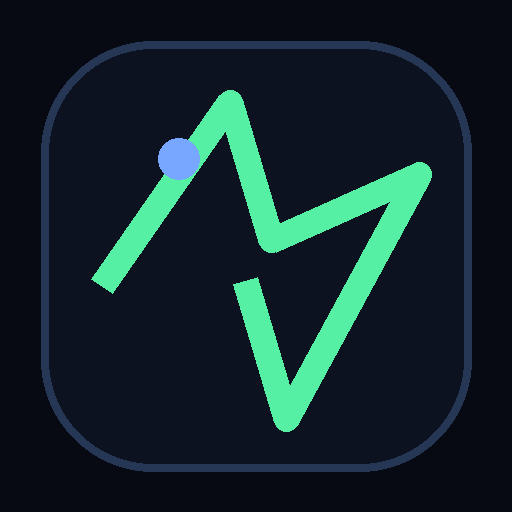
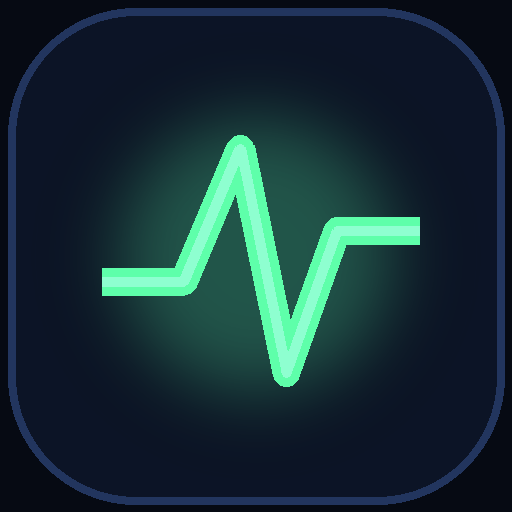
Add files via upload

diff --git a/index.html b/index.html
@@ -1,21 +1,29 @@
-<!doctype html><html lang="ru"><head><meta charset="utf-8"><meta name="viewport" content="width=device-width,initial-scale=1,viewport-fit=cover"><meta name="theme-color" content="#070A12"><link rel="manifest" href="manifest.json?v=14"><link rel="apple-touch-icon" href="icon-192.png"><title>Lowcap Radar</title><style>
-:root{--bg:#070A12;--card:#0E1524;--line:#223150;--txt:#EEF4FF;--mut:#8F9AB2;--good:#55F0A4;--bad:#FF6384;--warn:#F6C453;--r:24px;--shadow:0 16px 45px rgba(0,0,0,.35)}*{box-sizing:border-box}html,body{margin:0;background:var(--bg);color:var(--txt);font-family:-apple-system,BlinkMacSystemFont,"SF Pro Display",Segoe UI,sans-serif}body{min-height:100vh;overflow-x:hidden}.app{width:min(430px,100%);margin:0 auto;padding:env(safe-area-inset-top) 14px calc(88px + env(safe-area-inset-bottom));}.top{position:sticky;top:0;z-index:5;margin:0 -14px;padding:10px 14px 8px;background:linear-gradient(180deg,rgba(7,10,18,.98),rgba(7,10,18,.82));backdrop-filter:blur(18px)}.brand{display:flex;gap:10px;align-items:center}.logo{width:38px;height:38px;border-radius:13px;background:radial-gradient(circle at 35% 30%,#66f3b6,transparent 34%),linear-gradient(135deg,#14223a,#0b0f19 65%);border:1px solid #253555;display:grid;place-items:center;box-shadow:0 0 28px rgba(85,240,164,.12)}.logo svg{width:24px;height:24px}.h1{font-size:20px;font-weight:900;letter-spacing:-.04em;line-height:1}.sub{font-size:11px;color:var(--mut);margin-top:4px}.status{margin-left:auto;font-size:11px;color:var(--good);border:1px solid rgba(85,240,164,.25);background:rgba(85,240,164,.08);padding:7px 9px;border-radius:999px}.hero{margin-top:8px;border:1px solid var(--line);background:linear-gradient(180deg,#10192A,#0B101C);box-shadow:var(--shadow);border-radius:var(--r);padding:12px}.heroRow{display:grid;grid-template-columns:1fr 1fr 1fr;gap:8px}.metric{background:#0A101C;border:1px solid #18233A;border-radius:17px;padding:9px 8px;text-align:center}.metric b{display:block;font-size:17px;letter-spacing:-.03em}.metric span{font-size:10px;color:var(--mut)}.tabs{display:flex;gap:8px;margin:12px 0}.tab{flex:1;border:1px solid var(--line);background:#0D1422;color:var(--mut);border-radius:16px;padding:11px 8px;font-weight:800;font-size:12px}.tab.active{color:var(--txt);background:#17243A;border-color:#2A3B5E}.panel{display:none}.panel.active{display:block}.filters{display:grid;gap:10px}.filterCard,.coin,.watch,.sim{border:1px solid var(--line);background:var(--card);border-radius:var(--r);padding:12px}.grid2{display:grid;grid-template-columns:1fr 1fr;gap:10px}.field label{font-size:11px;color:var(--mut);display:block;margin:0 0 6px 2px}.field input,.field select{width:100%;height:41px;border:1px solid #22314E;background:#090F1A;color:var(--txt);border-radius:14px;padding:0 11px;font-weight:800;outline:none}.actions{display:flex;gap:10px;margin-top:10px}.btn{border:0;border-radius:16px;height:46px;padding:0 14px;font-weight:900;color:#071019;background:linear-gradient(135deg,var(--good),#8BFFA9);flex:1}.btn.secondary{color:var(--txt);background:#131D30;border:1px solid #253653}.btn:disabled{opacity:.55}.hint{font-size:11px;color:var(--mut);line-height:1.35;margin:8px 2px 0}.coins{display:grid;gap:10px;margin-top:10px}.coin{padding:12px}.coinTop{display:flex;align-items:center;gap:10px}.coin img,.avatar{width:34px;height:34px;border-radius:50%;background:#172235;object-fit:cover;flex:0 0 34px}.avatar{display:grid;place-items:center;color:white;font-size:11px;font-weight:900;background:linear-gradient(135deg,#34256b,#101b32)}.coinName{min-width:0}.coinName b{font-size:14px}.coinName span{display:block;color:var(--mut);font-size:11px;text-transform:uppercase}.score{margin-left:auto;width:54px;height:54px;border-radius:18px;display:grid;place-items:center;background:#09111D;border:1px solid #22334F;font-size:18px;font-weight:900}.score.good{color:var(--good)}.score.mid{color:var(--warn)}.score.low{color:var(--bad)}.data{display:grid;grid-template-columns:1fr 1fr 1fr;gap:7px;margin-top:10px}.pill{background:#090F1A;border:1px solid #192640;border-radius:14px;padding:8px 7px}.pill b{font-size:12px;display:block}.pill span{font-size:10px;color:var(--mut)}.coinActions{display:flex;gap:8px;margin-top:10px}.mini{flex:1;height:36px;border-radius:13px;border:1px solid #263755;background:#111B2D;color:var(--txt);font-weight:800}.mini.hot{background:rgba(85,240,164,.12);border-color:rgba(85,240,164,.25);color:var(--good)}.empty{border:1px dashed #263755;border-radius:20px;padding:22px;text-align:center;color:var(--mut);font-size:13px}.bottom{position:fixed;left:50%;bottom:0;transform:translateX(-50%);width:min(430px,100%);padding:8px 14px calc(8px + env(safe-area-inset-bottom));background:linear-gradient(180deg,rgba(7,10,18,0),rgba(7,10,18,.97) 26%)}.nav{display:flex;gap:8px;background:#0D1422;border:1px solid var(--line);border-radius:22px;padding:7px;box-shadow:var(--shadow)}.nav button{flex:1;border:0;background:transparent;color:var(--mut);font-weight:900;font-size:11px;padding:9px 4px;border-radius:15px}.nav button.active{background:#18243A;color:var(--txt)}.toast{position:fixed;left:50%;bottom:88px;transform:translateX(-50%) translateY(20px);background:#101A2B;border:1px solid #2D4168;color:var(--txt);border-radius:999px;padding:10px 14px;font-size:12px;opacity:0;pointer-events:none;transition:.2s}.toast.show{opacity:1;transform:translateX(-50%) translateY(0)}.risk{color:#F6C453}.gain{color:var(--good)}.loss{color:var(--bad)}
-</style></head><body><div class="app"><header class="top"><div class="brand"><div class="logo"><svg viewBox="0 0 24 24" fill="none"><path d="M3 13h4l3-8 4 16 3-8h4" stroke="#66F3B6" stroke-width="2.4" stroke-linecap="round" stroke-linejoin="round"/></svg></div><div><div class="h1">Lowcap Radar</div><div class="sub">автопоиск lowcap-монет · v1.4</div></div><div id="apiStatus" class="status">ready</div></div></header><section class="hero"><div class="heroRow"><div class="metric"><b id="foundCount">—</b><span>найдено</span></div><div class="metric"><b id="avgScore">—</b><span>средний score</span></div><div class="metric"><b>DYOR</b><span>не финсовет</span></div></div></section><div class="tabs"><button class="tab active" data-tab="radar">Радар</button><button class="tab" data-tab="watchlist">Список</button><button class="tab" data-tab="sim">$10/$50/$100</button></div><section id="radar" class="panel active"><div class="filterCard filters"><div class="grid2"><div class="field"><label>Market cap до $</label><input id="maxCap" type="number" value="50000000"></div><div class="field"><label>Цена до $</label><input id="maxPrice" type="number" value="1" step="0.0001"></div><div class="field"><label>Volume 24h от $</label><input id="minVol" type="number" value="100000"></div><div class="field"><label>Сеть</label><select id="network"><option value="">Любая</option><option value="ethereum">Ethereum</option><option value="solana">Solana</option><option value="base">Base</option><option value="arbitrum">Arbitrum</option><option value="polygon-pos">Polygon</option><option value="optimistic-ethereum">Optimism</option><option value="binance-smart-chain">BNB Chain</option></select></div></div><div class="field"><label>Категория</label><select id="category"><option value="">Любая</option><option value="meme-token">Meme</option><option value="artificial-intelligence">AI</option><option value="gaming">Gaming</option><option value="real-world-assets-rwa">RWA</option><option value="depin">DePIN</option><option value="layer-1">Layer 1</option><option value="layer-2">Layer 2</option></select></div><div class="field"><label>CoinGecko Demo API Key</label><input id="apiKey" type="text" placeholder="вставь ключ CoinGecko, если API пишет error"></div><div class="actions"><button id="scanBtn" class="btn">Сканировать</button><button id="demoBtn" class="btn secondary">Demo</button></div><p class="hint">v1.4 сканирует несколько страниц CoinGecko. Demo больше не включается автоматически, чтобы не путать реальные монеты с тестовыми.</p></div><div id="coins" class="coins"></div></section><section id="watchlist" class="panel"><div id="watchBox" class="coins"></div></section><section id="sim" class="panel"><div class="sim"><div class="field"><label>Монета из watchlist</label><select id="simCoin"></select></div><div class="actions"><button class="btn secondary" data-buy="10">$10</button><button class="btn secondary" data-buy="50">$50</button><button class="btn secondary" data-buy="100">$100</button></div><p id="simResult" class="hint">Добавь монету в watchlist и выбери сумму. Это условная симуляция.</p></div></section></div><footer class="bottom"><div class="nav"><button class="active" data-tab="radar">Радар</button><button data-tab="watchlist">Список</button><button data-tab="sim">$10/$50/$100</button></div></footer><div id="toast" class="toast"></div><script>
-const API='https://api.coingecko.com/api/v3'; const $=id=>document.getElementById(id); let coins=[]; let watch=JSON.parse(localStorage.lowcapWatch||'[]');
-const demo=[{id:'demo-ai',name:'Nexa AI',symbol:'nexa',current_price:.042,market_cap:18000000,total_volume:1200000,price_change_percentage_24h:12.4,price_change_percentage_7d_in_currency:33},{id:'demo-rwa',name:'Brick RWA',symbol:'brick',current_price:.0062,market_cap:7200000,total_volume:340000,price_change_percentage_24h:4.7,price_change_percentage_7d_in_currency:18},{id:'demo-meme',name:'Byte Cat',symbol:'bytecat',current_price:.00081,market_cap:3100000,total_volume:210000,price_change_percentage_24h:-2.1,price_change_percentage_7d_in_currency:55}];
-function money(n){if(n==null)return'—'; if(n>=1e9)return'$'+(n/1e9).toFixed(1)+'B'; if(n>=1e6)return'$'+(n/1e6).toFixed(1)+'M'; if(n>=1e3)return'$'+(n/1e3).toFixed(0)+'K'; if(n>=1)return'$'+(+n).toFixed(2); return '$'+(+n).toPrecision(2)}
-function score(c){let s=0,cap=c.market_cap||0,vol=c.total_volume||0,p=c.current_price||0,d=c.price_change_percentage_24h||0,w=c.price_change_percentage_7d_in_currency||0; if(cap>0&&cap<5e6)s+=25; else if(cap<20e6)s+=20; else if(cap<50e6)s+=14; if(vol>1e6)s+=20; else if(vol>250e3)s+=15; else if(vol>50e3)s+=9; if(p>0&&p<.01)s+=12; else if(p<.1)s+=9; else if(p<1)s+=6; if(w>40)s+=22; else if(w>15)s+=16; else if(w>0)s+=8; if(d>5)s+=12; else if(d>-8)s+=6; return Math.min(100,Math.round(s+8))}
-function pass(c){let cap=+$('maxCap').value||1e12, price=+$('maxPrice').value||1e12, vol=+$('minVol').value||0; return (c.market_cap||0)<=cap&&(c.current_price||0)<=price&&(c.total_volume||0)>=vol}
-function avatar(symbol){let s=(symbol||'?').toUpperCase().slice(0,3); return `<div class="avatar">${s}</div>`}
-function iconHtml(c){return c.image?`<img src="${c.image}" loading="lazy" onerror="this.outerHTML=avatar('${(c.symbol||'?').replace(/'/g,'')}')">`:avatar(c.symbol)}
-function coinCard(c){let sc=score(c), cls=sc>=70?'good':sc>=45?'mid':'low', inW=watch.some(x=>x.id===c.id); return `<div class="coin"><div class="coinTop">${iconHtml(c)}<div class="coinName"><b>${c.name}</b><span>${c.symbol}</span></div><div class="score ${cls}">${sc}</div></div><div class="data"><div class="pill"><b>${money(c.market_cap)}</b><span>market cap</span></div><div class="pill"><b>${money(c.current_price)}</b><span>price</span></div><div class="pill"><b>${money(c.total_volume)}</b><span>volume</span></div></div><div class="data"><div class="pill"><b class="${(c.price_change_percentage_24h||0)>=0?'gain':'loss'}">${(c.price_change_percentage_24h||0).toFixed(1)}%</b><span>24h</span></div><div class="pill"><b class="${(c.price_change_percentage_7d_in_currency||0)>=0?'gain':'loss'}">${(c.price_change_percentage_7d_in_currency||0).toFixed(1)}%</b><span>7d</span></div><div class="pill"><b class="risk">DYOR</b><span>no advice</span></div></div><div class="coinActions"><button class="mini ${inW?'hot':''}" onclick="toggleWatch('${c.id}')">${inW?'В списке':'В watchlist'}</button><button class="mini" onclick="window.open('https://www.coingecko.com/en/coins/${c.id}','_blank')">CoinGecko</button></div></div>`}
-function render(){let list=coins.filter(pass).sort((a,b)=>score(b)-score(a)); $('coins').innerHTML=list.length?list.map(coinCard).join(''):'<div class="empty">Ничего не найдено. Ослабь фильтры: увеличь market cap или уменьши volume.</div>'; $('foundCount').textContent=list.length; $('avgScore').textContent=list.length?Math.round(list.reduce((s,c)=>s+score(c),0)/list.length):'—'; renderWatch()}
-function renderWatch(){localStorage.lowcapWatch=JSON.stringify(watch); $('watchBox').innerHTML=watch.length?watch.map(coinCard).join(''):'<div class="empty">Watchlist пуст.</div>'; $('simCoin').innerHTML=watch.map(c=>`<option value="${c.id}">${c.name} (${(c.symbol||'').toUpperCase()})</option>`).join('')||'<option>Нет монет</option>'}
-function toggleWatch(id){let c=[...coins,...watch].find(x=>x.id===id); if(!c)return; watch=watch.some(x=>x.id===id)?watch.filter(x=>x.id!==id):[c,...watch].slice(0,30); toast(watch.some(x=>x.id===id)?'Добавлено в watchlist':'Удалено'); render()}
-async function fetchPage(page,cat){let key=($('apiKey').value||localStorage.cgDemoKey||'').trim(); if(key)localStorage.cgDemoKey=key; let url=`${API}/coins/markets?vs_currency=usd&order=market_cap_asc&per_page=250&page=${page}&sparkline=false&price_change_percentage=7d&locale=en`; if(cat)url+=`&category=${encodeURIComponent(cat)}`; if(key)url+=`&x_cg_demo_api_key=${encodeURIComponent(key)}`; let r=await fetch(url,{cache:'no-store',mode:'cors'}); if(!r.ok){let msg='CoinGecko API '+r.status; if(r.status===401||r.status===403)msg+=': нужен Demo API Key'; if(r.status===429)msg+=': лимит, подожди минуту'; throw new Error(msg)} return await r.json()}
-async function scan(){ $('scanBtn').disabled=true; $('scanBtn').textContent='Сканирую…'; $('apiStatus').textContent='scan'; try{let cat=$('category').value; let all=[]; for(let p=1;p<=4;p++){let arr=await fetchPage(p,cat); all=all.concat(arr); if(arr.length<250)break} let seen=new Set(); coins=all.filter(c=>c&&c.id&&!seen.has(c.id)&&seen.add(c.id)&&c.market_cap&&c.current_price); $('apiStatus').textContent='online'; render(); toast('Обновлено: '+coins.length+' монет из API')}catch(e){$('apiStatus').textContent='api error'; $('coins').innerHTML='<div class="empty"><b>API не ответил.</b><br>Чаще всего CoinGecko требует Demo API Key или сработал лимит. Вставь ключ в поле выше и нажми «Сканировать». Demo доступен отдельной кнопкой.</div>'; toast(e.message||'API недоступен')} finally{$('scanBtn').disabled=false;$('scanBtn').textContent='Сканировать'}}
-function toast(t){let el=$('toast');el.textContent=t;el.classList.add('show');setTimeout(()=>el.classList.remove('show'),1800)}
-document.querySelectorAll('[data-tab]').forEach(b=>b.onclick=()=>{let t=b.dataset.tab;document.querySelectorAll('.panel').forEach(p=>p.classList.toggle('active',p.id===t));document.querySelectorAll('[data-tab]').forEach(x=>x.classList.toggle('active',x.dataset.tab===t))});
-if(localStorage.cgDemoKey)$('apiKey').value=localStorage.cgDemoKey; $('apiKey').onchange=()=>{localStorage.cgDemoKey=$('apiKey').value.trim(); toast('API key сохранён на iPhone')}; ['maxCap','maxPrice','minVol','category','network'].forEach(id=>$(id).onchange=render); $('scanBtn').onclick=scan; $('demoBtn').onclick=()=>{coins=demo;$('apiStatus').textContent='demo';render()}; document.querySelectorAll('[data-buy]').forEach(b=>b.onclick=()=>{let id=$('simCoin').value,c=watch.find(x=>x.id===id),sum=+b.dataset.buy;if(!c)return;let qty=sum/c.current_price;$('simResult').innerHTML=`Условная покупка <b>$${sum}</b>: примерно <b>${qty.toLocaleString('en-US',{maximumFractionDigits:2})} ${c.symbol.toUpperCase()}</b>. Это симуляция, не рекомендация.`});
-window.avatar=avatar; if('serviceWorker'in navigator)navigator.serviceWorker.register('sw.js?v=14'); render(); scan();
+<!doctype html><html lang="ru"><head><meta charset="utf-8"><meta name="viewport" content="width=device-width,initial-scale=1,viewport-fit=cover"><meta name="theme-color" content="#060a13"><link rel="manifest" href="manifest.json"><link rel="apple-touch-icon" href="icon-192.png"><title>Lowcap Radar</title><style>
+:root{--bg:#060a13;--card:#0d1424;--card2:#09111e;--line:#203153;--txt:#f4f7ff;--muted:#8d98b3;--green:#64f6a2;--red:#ff6d91;--yellow:#ffd15f}*{box-sizing:border-box}body{margin:0;background:radial-gradient(circle at 20% 0,#12233d 0,#060a13 38%,#04070d 100%);color:var(--txt);font-family:-apple-system,BlinkMacSystemFont,Inter,Segoe UI,Arial,sans-serif;padding:env(safe-area-inset-top) 14px calc(90px + env(safe-area-inset-bottom));}button,input,select{font:inherit} .app{max-width:430px;margin:0 auto}.top{display:flex;align-items:center;gap:12px;padding:18px 0 12px;position:sticky;top:0;background:linear-gradient(#060a13 70%,transparent);z-index:5}.logo{width:44px;height:44px;border-radius:14px;box-shadow:0 0 24px rgba(100,246,162,.25)}h1{font-size:27px;line-height:1;margin:0}.sub{color:var(--muted);font-size:14px;margin-top:5px}.pill{margin-left:auto;border:1px solid #1f6f4b;color:var(--green);padding:8px 12px;border-radius:18px;background:#0b211b;font-size:14px}.stats,.panel,.coin{background:rgba(13,20,36,.92);border:1px solid var(--line);border-radius:24px;box-shadow:inset 0 0 0 1px rgba(255,255,255,.015);}.stats{display:grid;grid-template-columns:repeat(3,1fr);gap:10px;padding:14px;margin:8px 0 14px}.stat{background:var(--card2);border:1px solid var(--line);border-radius:18px;padding:13px 10px;text-align:center}.stat b{display:block;font-size:22px}.stat span{font-size:12px;color:var(--muted)}.tabs{display:grid;grid-template-columns:1fr 1fr 1fr;gap:10px;margin:12px 0}.tab{border:1px solid var(--line);background:#10192c;color:#aab4cd;border-radius:18px;padding:14px 8px;font-weight:800}.tab.active{background:#1a2945;color:#fff}.panel{padding:14px;margin-bottom:14px}.grid{display:grid;grid-template-columns:1fr 1fr;gap:12px}.field label{display:block;color:var(--muted);font-size:13px;margin:0 0 6px 4px}.field input,.field select{width:100%;background:#08111f;color:#fff;border:1px solid var(--line);border-radius:16px;padding:13px 14px;font-weight:700}.wide{grid-column:1/-1}.scan{background:linear-gradient(135deg,#54ee9a,#83ffb7);color:#06100b;border:0;border-radius:18px;padding:15px 12px;font-weight:900;width:100%;margin-top:12px}.ghost{background:#10192c;color:#fff;border:1px solid var(--line);border-radius:18px;padding:15px 12px;font-weight:800;width:100%;margin-top:12px}.hint{color:var(--muted);font-size:13px;line-height:1.35;margin-top:12px}.coin{padding:14px;margin:12px 0}.row{display:flex;align-items:center;gap:12px}.avatar{width:46px;height:46px;border-radius:15px;background:linear-gradient(135deg,#2c1e5e,#18263f);display:grid;place-items:center;font-weight:900;overflow:hidden;flex:none}.avatar img{width:100%;height:100%;object-fit:cover}.name{font-size:19px;font-weight:900}.sym{color:var(--muted);font-size:14px;text-transform:uppercase;margin-top:2px}.score{margin-left:auto;border:1px solid var(--line);background:#09111e;border-radius:20px;min-width:58px;height:58px;display:grid;place-items:center;color:var(--green);font-size:25px;font-weight:900}.metrics{display:grid;grid-template-columns:repeat(3,1fr);gap:10px;margin:14px 0}.metric{background:#07101d;border:1px solid var(--line);border-radius:16px;padding:11px 9px;min-height:64px}.metric b{font-size:15px}.metric span{display:block;color:var(--muted);font-size:12px;margin-top:6px}.actions{display:grid;grid-template-columns:1fr 1fr;gap:10px}.actions button,.actions a{border:1px solid var(--line);background:#10192c;color:#fff;border-radius:16px;padding:12px;text-align:center;text-decoration:none;font-weight:800}.empty{border:1px dashed #26395f;color:#9aa6c1;text-align:center;border-radius:22px;padding:26px 14px;margin:16px 0;line-height:1.35}.bottom{position:fixed;left:50%;bottom:calc(10px + env(safe-area-inset-bottom));transform:translateX(-50%);width:min(430px,calc(100% - 28px));display:grid;grid-template-columns:1fr 1fr 1fr;gap:8px;background:#0d1424;border:1px solid var(--line);border-radius:24px;padding:8px;z-index:10}.bottom button{border:0;border-radius:18px;background:transparent;color:#9aa6c1;padding:13px 4px;font-weight:900}.bottom button.active{background:#1a2945;color:#fff}.pos{color:var(--green)}.neg{color:var(--red)}.small{font-size:12px;color:#7d88a4}.buyline{display:grid;grid-template-columns:repeat(3,1fr);gap:10px;margin:12px 0}.buyline div{background:#07101d;border:1px solid var(--line);border-radius:15px;padding:12px 8px}.buyline b{display:block}.hidden{display:none}@media(max-width:370px){h1{font-size:23px}.metrics{gap:7px}.metric{padding:9px 7px}.name{font-size:17px}}
+</style></head><body><div class="app"><div class="top"><img class="logo" src="icon-192.png"><div><h1>Lowcap Radar</h1><div class="sub">DEX Screener API · v2.0 · без ключа</div></div><div id="status" class="pill">ready</div></div><div class="stats"><div class="stat"><b id="found">0</b><span>найдено</span></div><div class="stat"><b id="avg">—</b><span>средний score</span></div><div class="stat"><b>DYOR</b><span>не финсовет</span></div></div><div class="tabs"><button class="tab active" data-tab="radar">Радар</button><button class="tab" data-tab="list">Список</button><button class="tab" data-tab="buy">$10/$50/$100</button></div>
+<section id="radar" class="view"><div class="panel"><div class="grid"><div class="field"><label>Market cap до $</label><input id="maxCap" type="number" value="50000000"></div><div class="field"><label>Цена до $</label><input id="maxPrice" type="number" value="1" step="0.000001"></div><div class="field"><label>Volume 24h от $</label><input id="minVol" type="number" value="50000"></div><div class="field"><label>Ликвидность от $</label><input id="minLiq" type="number" value="20000"></div><div class="field"><label>Сеть</label><select id="chain"><option value="all">Любая</option><option value="solana">Solana</option><option value="base">Base</option><option value="ethereum">Ethereum</option><option value="bsc">BSC</option><option value="polygon">Polygon</option><option value="arbitrum">Arbitrum</option></select></div><div class="field"><label>Режим</label><select id="mode"><option value="latest">Новые/профили</option><option value="boosted">Boosted</option><option value="mixed">Mixed</option></select></div></div><button id="scan" class="scan">Сканировать</button><button id="demo" class="ghost">Demo</button><div class="hint">v2.0 работает через DexScreener без API key. Рейтинг — технический скоринг по volume, liquidity, market cap, изменению цены и активности. Это не финансовый совет.</div></div><div id="cards"></div></section>
+<section id="list" class="view hidden"><div id="watch"></div></section><section id="buy" class="view hidden"><div id="buybox"></div></section></div><div class="bottom"><button class="active" data-tab="radar">Радар</button><button data-tab="list">Список</button><button data-tab="buy">$10/$50/$100</button></div>
+<script>
+const API='https://api.dexscreener.com'; const $=id=>document.getElementById(id); let coins=[]; let watch=JSON.parse(localStorage.getItem('watch_v2')||'[]');
+if('serviceWorker' in navigator) navigator.serviceWorker.register('./sw.js').catch(()=>{});
+document.querySelectorAll('[data-tab]').forEach(b=>b.onclick=()=>setTab(b.dataset.tab));
+function setTab(t){document.querySelectorAll('.view').forEach(v=>v.classList.add('hidden'));$(t).classList.remove('hidden');document.querySelectorAll('[data-tab]').forEach(b=>b.classList.toggle('active',b.dataset.tab===t)); if(t==='list') renderWatch(); if(t==='buy') renderBuy();}
+function fmt(n){n=Number(n||0); if(!n)return '—'; if(n>=1e9)return '$'+(n/1e9).toFixed(1)+'B'; if(n>=1e6)return '$'+(n/1e6).toFixed(1)+'M'; if(n>=1e3)return '$'+(n/1e3).toFixed(0)+'K'; return '$'+n.toFixed(2)}
+function price(n){n=Number(n||0); if(!n)return '—'; if(n<0.00001)return '$'+n.toExponential(2); if(n<0.01)return '$'+n.toPrecision(3); return '$'+n.toFixed(n<1?4:2)}
+function pct(n){n=Number(n||0); return (n>=0?'+':'')+n.toFixed(1)+'%'}
+function score(p){let s=0,mc=p.marketCap||p.fdv||0,v=p.volume?.h24||0,liq=p.liquidity?.usd||0,c24=p.priceChange?.h24||0,c6=p.priceChange?.h6||0,tx=(p.txns?.h24?.buys||0)+(p.txns?.h24?.sells||0); if(mc>0&&mc<5e6)s+=24; else if(mc<20e6)s+=18; else if(mc<50e6)s+=10; if(v>1e6)s+=20; else if(v>250000)s+=15; else if(v>50000)s+=9; if(liq>500000)s+=18; else if(liq>100000)s+=13; else if(liq>20000)s+=8; if(c24>30)s+=17; else if(c24>10)s+=12; else if(c24>-10)s+=5; if(c6>5)s+=8; if(tx>1000)s+=13; else if(tx>200)s+=8; else if(tx>50)s+=4; return Math.min(100,Math.round(s));}
+function normalizePair(p){return {id:p.chainId+':'+p.pairAddress,chain:p.chainId,name:p.baseToken?.name||'Unknown',symbol:p.baseToken?.symbol||'???',address:p.baseToken?.address,pair:p.pairAddress,url:p.url,img:p.info?.imageUrl||'',priceUsd:+p.priceUsd||0,marketCap:p.marketCap||p.fdv||0,fdv:p.fdv||0,volume:p.volume||{},liquidity:p.liquidity||{},priceChange:p.priceChange||{},txns:p.txns||{},score:score(p)}}
+async function fetchJson(url){const r=await fetch(url,{cache:'no-store'}); if(!r.ok)throw new Error('HTTP '+r.status); return r.json()}
+async function scan(){setStatus('scan'); $('cards').innerHTML='<div class="empty">Сканирую DexScreener…</div>'; try{let mode=$('mode').value; let profiles=[]; if(mode==='latest'||mode==='mixed') profiles=profiles.concat(await fetchJson(API+'/token-profiles/latest/v1')); if(mode==='boosted'||mode==='mixed') profiles=profiles.concat(await fetchJson(API+'/token-boosts/latest/v1'), await fetchJson(API+'/token-boosts/top/v1'));
+let byChain={}; profiles.filter(x=>x.chainId&&x.tokenAddress).forEach(x=>{(byChain[x.chainId] ||= new Set()).add(x.tokenAddress)}); let pairs=[]; for(const [chain,set] of Object.entries(byChain)){let arr=[...set].slice(0,90); for(let i=0;i<arr.length;i+=30){try{let data=await fetchJson(API+'/tokens/v1/'+chain+'/'+arr.slice(i,i+30).join(',')); if(Array.isArray(data)) pairs.push(...data)}catch(e){}}}
+let seen=new Set(); coins=pairs.map(normalizePair).filter(c=>{if(seen.has(c.id))return false; seen.add(c.id); return pass(c)}).sort((a,b)=>b.score-a.score).slice(0,60); render(); setStatus(coins.length?'live':'empty');}catch(e){setStatus('api error'); $('cards').innerHTML='<div class="empty">DexScreener сейчас не ответил. Попробуй ещё раз через минуту или нажми Demo.</div>'}}
+function pass(c){let maxCap=+$('maxCap').value||1e12,maxPrice=+$('maxPrice').value||1e12,minVol=+$('minVol').value||0,minLiq=+$('minLiq').value||0,chain=$('chain').value; return (chain==='all'||c.chain===chain)&&c.marketCap&&c.marketCap<=maxCap&&c.priceUsd<=maxPrice&&(c.volume.h24||0)>=minVol&&(c.liquidity.usd||0)>=minLiq}
+function coinHTML(c){let im=c.img?`<img src="${c.img}" onerror="this.remove();this.parentNode.textContent='${c.symbol.slice(0,3)}'">`:c.symbol.slice(0,3); let ch=c.priceChange.h24||0; return `<div class="coin"><div class="row"><div class="avatar">${im}</div><div><div class="name">${c.name}</div><div class="sym">${c.symbol} · ${c.chain}</div></div><div class="score">${c.score}</div></div><div class="metrics"><div class="metric"><b>${fmt(c.marketCap)}</b><span>market cap</span></div><div class="metric"><b>${price(c.priceUsd)}</b><span>price</span></div><div class="metric"><b>${fmt(c.volume.h24)}</b><span>volume</span></div><div class="metric"><b class="${ch>=0?'pos':'neg'}">${pct(ch)}</b><span>24h</span></div><div class="metric"><b>${fmt(c.liquidity.usd)}</b><span>liquidity</span></div><div class="metric"><b>DYOR</b><span>no advice</span></div></div><div class="actions"><button onclick="addWatch('${c.id}')">В watchlist</button><a href="${c.url}" target="_blank">DexScreener</a></div></div>`}
+function render(){ $('found').textContent=coins.length; $('avg').textContent=coins.length?Math.round(coins.reduce((a,c)=>a+c.score,0)/coins.length):'—'; $('cards').innerHTML=coins.length?coins.map(coinHTML).join(''):'<div class="empty">По этим фильтрам ничего не найдено. Попробуй снизить Volume/ликвидность или выбрать Mixed.</div>'}
+function addWatch(id){let c=coins.find(x=>x.id===id); if(c&&!watch.find(x=>x.id===id)){watch.unshift(c);watch=watch.slice(0,50);localStorage.setItem('watch_v2',JSON.stringify(watch));setStatus('saved')}}
+function renderWatch(){ $('watch').innerHTML=watch.length?watch.map(coinHTML).join(''):'<div class="empty">Watchlist пуст. Добавь монету кнопкой «В watchlist».</div>'}
+function renderBuy(){let base=watch.length?watch:coins; $('buybox').innerHTML=base.length?base.slice(0,20).map(c=>`<div class="coin"><div class="row"><div class="avatar">${c.symbol.slice(0,3)}</div><div><div class="name">${c.name}</div><div class="sym">${price(c.priceUsd)} · ${c.chain}</div></div><div class="score">${c.score}</div></div><div class="buyline">${[10,50,100].map(v=>`<div><b>$${v}</b><span class="small">≈ ${c.priceUsd?(v/c.priceUsd).toLocaleString(undefined,{maximumFractionDigits:0}):'—'} ${c.symbol}</span></div>`).join('')}</div><div class="hint">Условный расчёт, без комиссий и проскальзывания. Не финсовет.</div></div>`).join(''):'<div class="empty">Сначала нажми «Сканировать» или добавь монеты в watchlist.</div>'}
+function setStatus(t){$('status').textContent=t}
+function demo(){coins=[['PEPE2','Pepe 2.0','ethereum',0.0000002,42000000,1300000,250000,14,83],['BASE','Base Cat','base',0.0031,6300000,310000,90000,38,80],['SOLX','Solana X','solana',0.00084,2100000,120000,52000,-4,71]].map(x=>({id:x[0],symbol:x[0],name:x[1],chain:x[2],priceUsd:x[3],marketCap:x[4],volume:{h24:x[5]},liquidity:{usd:x[6]},priceChange:{h24:x[7]},score:x[8],url:'https://dexscreener.com'}));render();setStatus('demo')}
+$('scan').onclick=scan; $('demo').onclick=demo; scan();
 </script></body></html>

diff --git a/sw.js b/sw.js
@@ -1,4 +1,9 @@
-const CACHE='lowcap-radar-v14';
-self.addEventListener('install',e=>{self.skipWaiting();e.waitUntil(caches.open(CACHE).then(c=>c.addAll(['./','index.html','manifest.json','icon-192.png','icon-512.png'])))});
+const CACHE='lowcap-radar-v2-0-1';
+const ASSETS=['./','./index.html','./manifest.json','./icon-192.png','./icon-512.png'];
+self.addEventListener('install',e=>{self.skipWaiting();e.waitUntil(caches.open(CACHE).then(c=>c.addAll(ASSETS)))});
 self.addEventListener('activate',e=>{e.waitUntil(caches.keys().then(keys=>Promise.all(keys.filter(k=>k!==CACHE).map(k=>caches.delete(k)))));self.clients.claim()});
-self.addEventListener('fetch',e=>{if(e.request.url.includes('api.coingecko.com'))return; e.respondWith(caches.match(e.request).then(r=>r||fetch(e.request)))});
+self.addEventListener('fetch',e=>{
+  const url=new URL(e.request.url);
+  if(url.hostname.includes('api.dexscreener.com')) return;
+  e.respondWith(caches.match(e.request).then(r=>r||fetch(e.request).then(res=>{const copy=res.clone();caches.open(CACHE).then(c=>c.put(e.request,copy));return res}).catch(()=>caches.match('./index.html'))));
+});